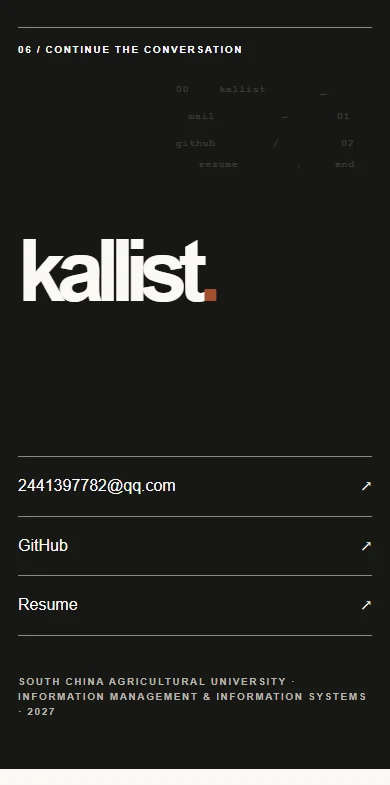
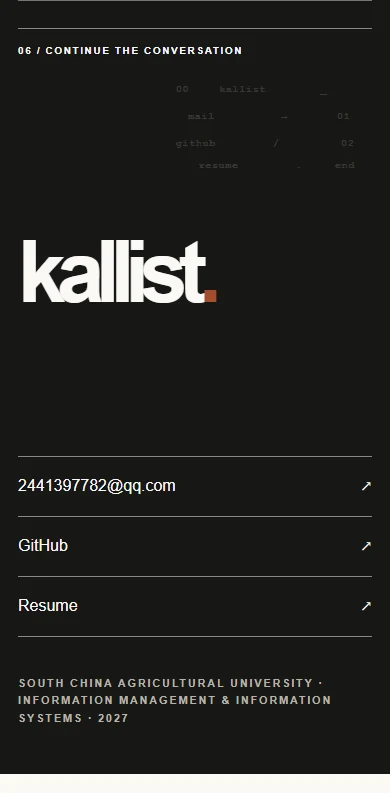
Improve mobile education legibility and refresh visual QA

diff --git a/tests/site.spec.ts b/tests/site.spec.ts
@@ -44,6 +44,10 @@ test("education reads as homepage metadata and a profile annotation", async ({
     "Information Management & Information Systems",
   );
   await expect(heroEducation).toContainText("2027");
+  const educationFontSize = await heroEducation.evaluate((element) =>
+    Number.parseFloat(getComputedStyle(element).fontSize),
+  );
+  expect(educationFontSize).toBeGreaterThanOrEqual(12);
   await expect(page.locator(".v11-education")).toContainText(
     "2023.09 — 2027.06",
   );

diff --git a/src/app/v11.css b/src/app/v11.css
@@ -1627,9 +1627,11 @@
     top: 80px;
     bottom: auto;
   }
-  .v11-hero-education {
+  .v11-home .v11-hero-education {
     display: block;
     padding: 13px 0 25px;
+    font-size: 12px;
+    line-height: 1.45;
   }
   .v11-hero-education span {
     display: block;
@@ -1663,8 +1665,8 @@
   .v11-detail figcaption {
     font-size: 10px;
   }
-  .v11-contact-credit {
-    font-size: 10px;
+  .v11-home .v11-contact-credit {
+    font-size: 11px;
     line-height: 1.6;
   }
 }

diff --git a/docs/visual-qa/v11-iteration/README.md b/docs/visual-qa/v11-iteration/README.md
@@ -10,7 +10,11 @@ Captured 2026-09-24 from this branch's `next build` static export at `http://127
 | Hero 1440 / 390 | [desktop](after-desktop-hero.webp) / [mobile](after-mobile-hero.webp) |
 | Visual Practice 1440 / 390 | [desktop](after-desktop-visual.webp) / [mobile](after-mobile-visual.webp) |
 | Ending 1440 / 390 | [desktop](after-desktop-contact.webp) / [mobile](after-mobile-contact.webp) |
+| Visual Practice through Ending 1440 / 390 | [desktop](after-desktop-visual-ending.webp) / [mobile](after-mobile-visual-ending.webp) |
 | Education 1440 / 390 | [desktop](after-desktop-education.webp) / [mobile](after-mobile-education.webp) |
 | Page-turn seam 1440 / 390 | [desktop](after-desktop-seam.webp) / [mobile](after-mobile-seam.webp) |
+| RepoBound pointer response at 1440 | [representative state](after-desktop-pattern-interaction.webp) |
 
-The detail strip no longer places large repeated portrait crops at the end of the page. The final dark seam carries into Contact and the homepage footer. All three measured viewports had `scrollWidth == clientWidth`, all nine pattern layers and five chapter seams rendered, and no page errors occurred. An active-motion Chromium check confirmed that a page-turn number progressed through four different scroll positions; touch entry registered a pattern once. Physical phone, Safari, Firefox and screen-reader checks remain untested.
+The detail strip no longer places large repeated portrait crops at the end of the page. The final dark seam carries into Contact and the homepage footer. The fresh post-build pass measured `scrollWidth == clientWidth` at 1440, 768 and 390px, with nine pattern layers, five chapter seams, no clipped headings or education blocks, and no page errors. All eight homepage images decoded at each width after explicitly loading the lazy images. Hero education metadata measured 12px at 390px; the profile education text remains larger. Pointer movement displaced a RepoBound glyph by `translate3d(-4.74px, -1.77px, 0px)` in the recorded representative state. An active-motion Chromium check confirmed that a page-turn number progressed through four different scroll positions; touch entry registered a pattern once.
+
+The local static server recorded speculative Next.js `.txt` prefetch requests returning 404 for Resume and Skin Lesion AI while page navigation and direct route tests passed. These were not image requests; hosted navigation behavior is not claimed here. Physical phone, Safari, Firefox and screen-reader checks remain untested.

diff --git a/docs/V11_PATTERN_ITERATION.md b/docs/V11_PATTERN_ITERATION.md
@@ -32,3 +32,5 @@ All glyphs are decorative, server-rendered HTML; each pattern uses at most twelv
 ## Factual and performance boundaries
 
 The user supplied the school, major, undergraduate dates and class year. Hero metadata, the ruled profile annotation and a quiet contact credit make that identity discoverable without creating an Education card or changing the `kallist` brand. The resume retains its existing real-name identity. There is no Person structured data in this site; none was invented for this iteration. No dependencies, network calls, canvas, WebGL or animation library were added.
+
+In the final 390px static-export review, the shared microtype rule made Hero education metadata 10px. A scoped rule raised it to 12px, with an E2E computed-size regression assertion. The [fresh visual QA captures](visual-qa/v11-iteration/README.md) include combined Visual Practice-to-Ending views and a pointer response state.
